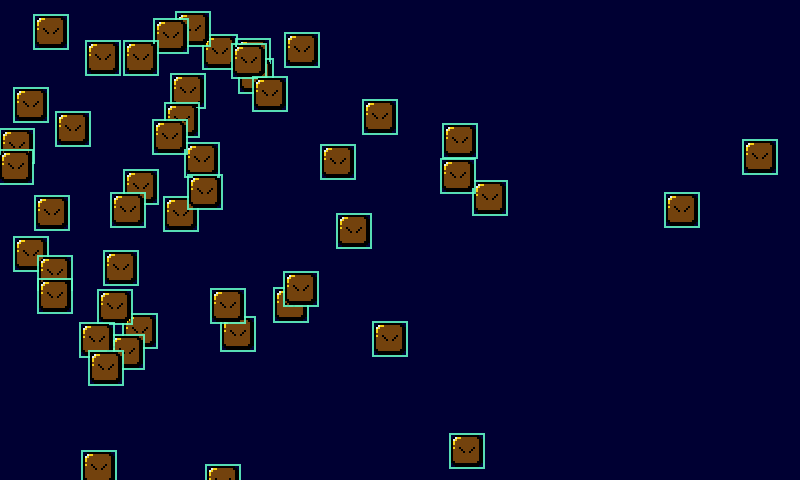
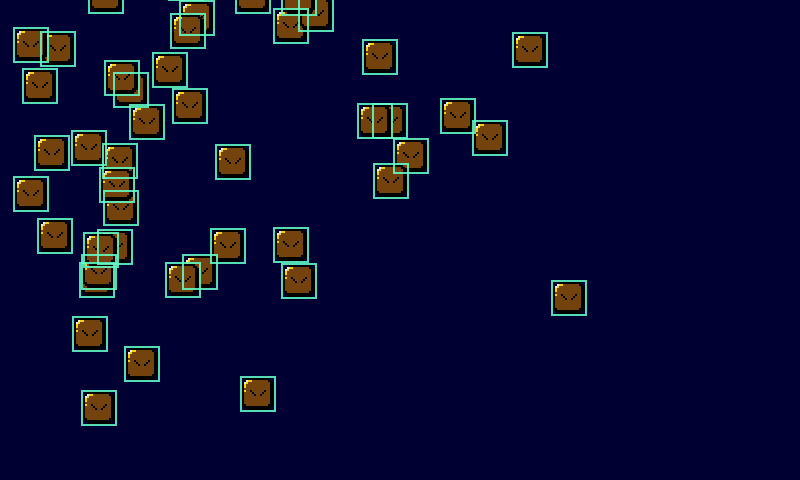
Brought the docs up to date with the engine and refreshed the screenshots
Fixed the getting-started example's render missing its alpha parameter, the
game loop pseudo-code placing hot reload inside the update loop, and the
Linux/macOS save paths (SDL includes the org name). Documented enum fields in
loadStruct, FontAtlas.setPixelated, the 3D quad shader's alpha discard and
Actor.update carrying leftover time. The Zig version is now named as the
0.17.0 release and Android is listed as a target.

Added render_target and game_state screenshots (game_state_ex opts into the
screenshot hook) and widened the text crop to include the alignment demo.

diff --git a/tools/doc_screenshots.py b/tools/doc_screenshots.py
@@ -104,7 +104,7 @@ SHOTS = [
     Shot("render", "render_ex", "rendering.md", ms=1000),
     Shot("actor", "actor_ex", "animation.md", ms=600, input=taps(["right"]),
          crop=(200, 120, 400, 240)),
-    Shot("text", "text_rendering_ex", "text.md", ms=500, crop=(0, 0, 560, 400)),
+    Shot("text", "text_rendering_ex", "text.md", ms=500, crop=(0, 30, 700, 360)),
     Shot("bitmap_text", "bitmap_text_rendering_ex", "text.md", ms=500,
          crop=(0, 150, 800, 110)),
     Shot("tiles", "tile_load_ex", "tile-rendering.md", ms=1500,
@@ -121,6 +121,11 @@ SHOTS = [
     Shot("console", "console_ex", "scripting.md", ms=1500,
          input="100 text x = 6 * 7; 400 tap enter; 500 text con:log(\"x is \" .. x); 900 tap enter"),
     Shot("quad3d", "quad3d_ex", "low-level-rendering.md", ms=300),
+    # Blur and additive blending are on from the start.
+    Shot("render_target", "render_target_ex", "rendering.md", ms=1500),
+    # Scene A's box slides for a while, then P pushes the dimmed pause
+    # overlay that freezes it.
+    Shot("game_state", "game_state_ex", "game-states.md", ms=1500, input="1200 tap p"),
     Shot("create_texture", "create_texture_ex", "assets.md", ms=200,
          crop=(32, 32, 256, 192), scale=2),
 ]

diff --git a/docs/scripting.md b/docs/scripting.md
@@ -87,7 +87,7 @@ A script with an error is logged and not reported, and stays watched, so saving 
 
 ```lua
 -- config.lua
-config = { fullscreen = true, scale = 4, volume = 0.8, title = "My Game" }
+config = { fullscreen = true, scale = 4, volume = 0.8, difficulty = "hard", title = "My Game" }
 ```
 
 ```zig
@@ -95,6 +95,7 @@ const Config = struct {
     fullscreen: bool = false,
     scale: i32 = 1,
     volume: f32 = 1.0,
+    difficulty: enum { easy, normal, hard } = .normal,
     title: ?[]u8 = null,
 };
 
@@ -103,7 +104,7 @@ const cfg = try scripts.loadStruct(Config, "config");
 defer if (cfg.title) |t| alloc.free(t);
 ```
 
-Fields can be `bool`, integers, floats and `?[]u8` strings. A field the table leaves out keeps its Zig default, so a config file only needs the settings it changes. A field with the wrong type returns `error.InvalidFieldType`. Strings are copied with the allocator the script engine was created with, and you free them. A missing global returns `error.InvalidConfigTable`.
+Fields can be `bool`, integers, floats, enums and `?[]u8` strings. An enum is read from a string naming one of its fields, and any other string returns `error.InvalidEnumValue`. A field the table leaves out keeps its Zig default, so a config file only needs the settings it changes. A field with the wrong type returns `error.InvalidFieldType`. Strings are copied with the allocator the script engine was created with, and you free them. A missing global returns `error.InvalidConfigTable`.
 
 Key bindings have their own loader, `ActionMap.loadFromLua`. See [Input](page:input).
 

diff --git a/docs/text.md b/docs/text.md
@@ -45,7 +45,7 @@ _ = eng.renderer.drawText("Ready?", .{ .x = (w - size.x) / 2, .y = (h - size.y) 
 
 Glyphs are packed into the font atlas the first time they're drawn. Text is UTF-8, so Japanese, accented letters and symbols work as long as the font has them.
 
-![text_rendering_ex: scaled text and a measured, boxed string](assets/screenshots/text.png)
+![text_rendering_ex: scaled text, a measured and boxed string, left, centered and right alignment around one x, and a string clipped to its box](assets/screenshots/text.png)
 
 ## Picking the Default Font
 
@@ -93,6 +93,13 @@ try eng.renderer.setDefaultFont(&eng.resources, "font5r");
 ```
 
 Start the renderer with `.font = .none` when you're going to swap in a bitmap font, so it doesn't load the embedded one for nothing. A `color` in the style tints bitmap fonts too. See `examples/bitmap_text_rendering_ex.zig`.
+
+TTF fonts are filtered smoothly, which blurs a pixel-art TTF drawn at a `scale` above 1. `setPixelated(true)` on its atlas switches it to nearest filtering and keeps the hard edges:
+
+```zig
+const pixelFont = try eng.resources.loadFontFromTtfFile("pixel", "assets/PixelFont.ttf", 8.0);
+pixelFont.val.setPixelated(true);
+```
 
 ![bitmap_text_rendering_ex drawing with a bitmap font](assets/screenshots/bitmap_text.png)
 

diff --git a/docs/getting-started.md b/docs/getting-started.md
@@ -2,7 +2,7 @@
 
 ![Pixzig Logo](assets/pixzig.png)
 
-Pixzig is a 2D game engine written in Zig. It gives you a fixed-timestep game loop, a batched OpenGL renderer, input with action maps, Tiled map loading, audio, Lua scripting, a sequencer for timed events and a small immediate-mode UI. Games build for Linux, Windows and the browser from the same code.
+Pixzig is a 2D game engine written in Zig. It gives you a fixed-timestep game loop, a batched OpenGL renderer, input with action maps, Tiled map loading, audio, Lua scripting, a sequencer for timed events and a small immediate-mode UI. Games build for Linux, Windows, the browser and Android from the same code.
 
 These pages walk through each system in roughly the order you'll need them. Start here, then read [The Game Loop](page:app-runner) and [Rendering](page:rendering).
 
@@ -129,7 +129,7 @@ pub const App = struct {
         if (eng.inputs.keyboard.pressed(.escape)) eng.quit();
     }
 
-    pub fn render(_: *App, eng: *AppRunner.Engine) void {
+    pub fn render(_: *App, eng: *AppRunner.Engine, _: f32) void {
         eng.renderer.clear(26, 26, 51, 255);
 
         eng.renderer.begin(.logical);

diff --git a/docs/app-runner.md b/docs/app-runner.md
@@ -175,16 +175,19 @@ Each frame, the runner measures how much time passed and runs `update` in fixed 
 // AppRunner.gameLoopCore, simplified:
 lag = @min(lag + elapsed, maxLagMs);
 eng.pollEventsWith(app);             // app.onEvent, when it has one
+eng.resources.checkHotReload();      // debug builds: pick up changed files
+eng.scripts.checkHotReload();        // and changed Lua files, when scripting is on
 while (lag > UpdateStepMs) {
     lag -= UpdateStepMs;
     eng.inputs.update(...);          // latch this tick's input
     eng.updateActions(UpdateStepMs); // when actionOpts is set
-    eng.resources.checkHotReload();  // debug builds: pick up changed files
     app.update(eng, UpdateStepMs);   // an error here calls eng.quit()
     eng.inputs.finishTick();         // so pressed/released are one-tick edges
     if (eng.quitRequested) return false;
 }
+eng.updateAudio();                   // finish fades, free ended streams
 app.render(eng, lag / UpdateStepMs); // alpha, see Smooth Motion
+eng.drawTouchOverlay();              // the virtual pad, unless the app drew it
 window.swapBuffers();
 ```
 

diff --git a/docs/building.md b/docs/building.md
@@ -1,10 +1,10 @@
 # Building and Shipping
 
-Pixzig builds with the Zig build system, for Linux, Windows and the browser. [Getting Started](../index.html) covers `buildGame`; this page covers what happens after that.
+Pixzig builds with the Zig build system, for Linux, Windows, the browser and Android. [Getting Started](../index.html) covers `buildGame`; this page covers what happens after that.
 
 ## Zig Version
 
-Pixzig tracks a pinned Zig version, recorded as `minimum_zig_version` in pixzig's `build.zig.zon`. Use exactly that version; Zig changes enough between builds that a newer or older one usually won't compile it. On Linux, `./scripts/bootstrap-linux.sh` checks the version and the system prerequisites, then builds:
+Pixzig builds with Zig 0.17.0, recorded as `minimum_zig_version` in pixzig's `build.zig.zon`. Use exactly that release; Zig changes enough between versions that a newer or older one usually won't compile it. On Linux, `./scripts/bootstrap-linux.sh` checks the version and the system prerequisites, then builds:
 
 ```sh
 ./scripts/bootstrap-linux.sh          # zig build

diff --git a/docs/animation.md b/docs/animation.md
@@ -95,6 +95,8 @@ self.hero.deinit();
 
 The first state you add becomes current and its first frame is applied right away. `setState` switches to another state and shows its first frame immediately. Setting the state the actor is already in does nothing, so it's safe to call every tick. Asking for a name you never added returns `error.UnknownActorState`.
 
+`update` steps through as many frames as `deltaMs` covers and keeps the leftover time for the next frame, so an animation keeps its pace however the time arrives. When a play-once state ends partway through a tick, the rest of that tick goes to its `nextState`.
+
 Move, scale and draw the actor through `actor.sprite`. A frame can come from a different texture than the last one; the actor switches the sprite's texture for you. Flips on the frame and on the state combine, and two flips on the same axis cancel out.
 
 ### Shared States

diff --git a/docs/rendering.md b/docs/rendering.md
@@ -233,6 +233,8 @@ eng.renderer.end();
 
 The shader receives `Texcoord`, the draw's color `Col`, its draw `Mode` (0 for textures and shapes, 1 for TTF text, 2 for silhouettes) and the texture `tex`, and writes `fragColor`. `texture(tex, Texcoord) * Col` is the ordinary result for sprites and render targets. Like the blend mode, the shader ends with the pass. `examples/render_target_ex.zig` puts a target, additive blending, a two-pass blur through a second target and a fade together.
 
+![render_target_ex: tinted sprites drawn additively into a small target, then blurred onto the screen](assets/screenshots/render_target.png)
+
 ## Mixing in Other Renderers
 
 A few renderers draw on their own rather than through the batch: `TileMapRenderer`, `PixelBuffer`, `GridRenderer` and the 3D quad batches. Call them outside a `begin`/`end` pair, between your own passes:

diff --git a/docs/game-states.md b/docs/game-states.md
@@ -116,3 +116,5 @@ The stack has its own pair of optional hooks, so a state can tell being covered 
 A few rules keep the stack simple: a state can be on it only once (`push` of one already there returns `error.StateAlreadyOnStack`), the bottom state can't be popped (`error.LastState`; replace it with `setCurrState`), and `setCurrState` clears the whole stack, deactivating top first, before activating the new state. `depth()` and `isOnStack(state)` report what's on it.
 
 `examples/game_state_ex.zig` switches between two scenes with the number keys, and P pushes a dimmed pause overlay that freezes the scene beneath it.
+
+![game_state_ex: the pause state pushed over scene A, which still renders underneath, dimmed and frozen](assets/screenshots/game_state.png)

diff --git a/docs/low-level-rendering.md b/docs/low-level-rendering.md
@@ -62,6 +62,8 @@ self.dynamic.end();
 
 A `Quad3DBatch` uses one texture. Keep one batch per texture if you need several. Depth testing is turned on for the 3D draws and back off afterwards, so 2D drawing that follows, like a HUD, isn't affected.
 
+The 3D quad shader discards texels with alpha below 0.5 instead of blending them, so a sprite's transparent pixels don't write depth and hide what's drawn behind them later. Billboarded sprites can go in any order; partly transparent texels come out fully on or fully off.
+
 `examples/quad3d_ex.zig` spins a quad and a torus.
 
 ![quad3d_ex: a textured quad and torus in 3D](assets/screenshots/quad3d.png)

diff --git a/docs/saves.md b/docs/saves.md
@@ -13,9 +13,10 @@ defer alloc.free(dir);
 
 | Platform | Directory |
 |---|---|
-| Linux | `~/.local/share/mygame/` |
+| Linux | `~/.local/share/myname/mygame/` (or under `$XDG_DATA_HOME`) |
 | Windows | `%APPDATA%\myname\mygame\` |
-| macOS | `~/Library/Application Support/mygame/` |
+| macOS | `~/Library/Application Support/myname/mygame/` |
+| Android | The app's private internal storage. `org` and `app` are ignored. |
 
 Pick the names once and don't change them, or players lose their saves.
 
